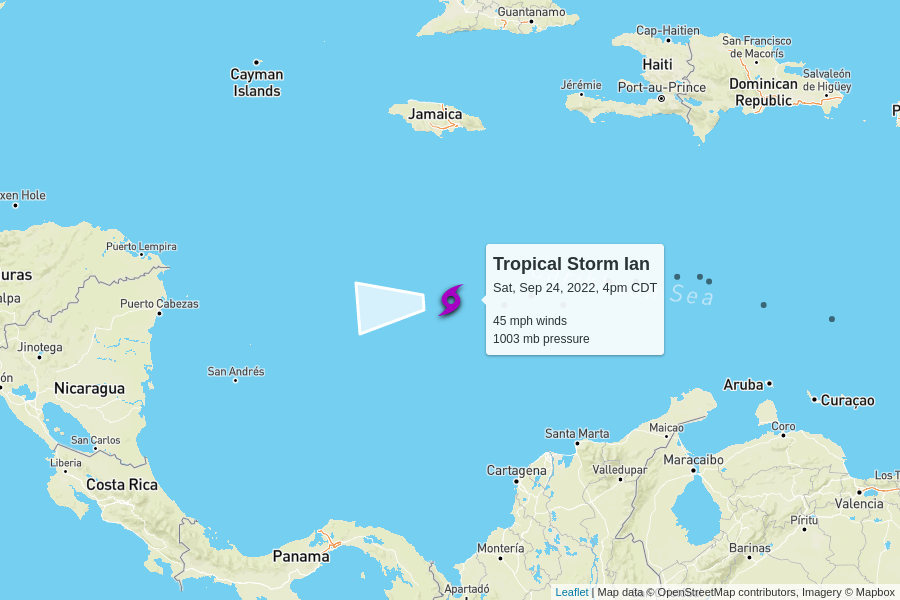
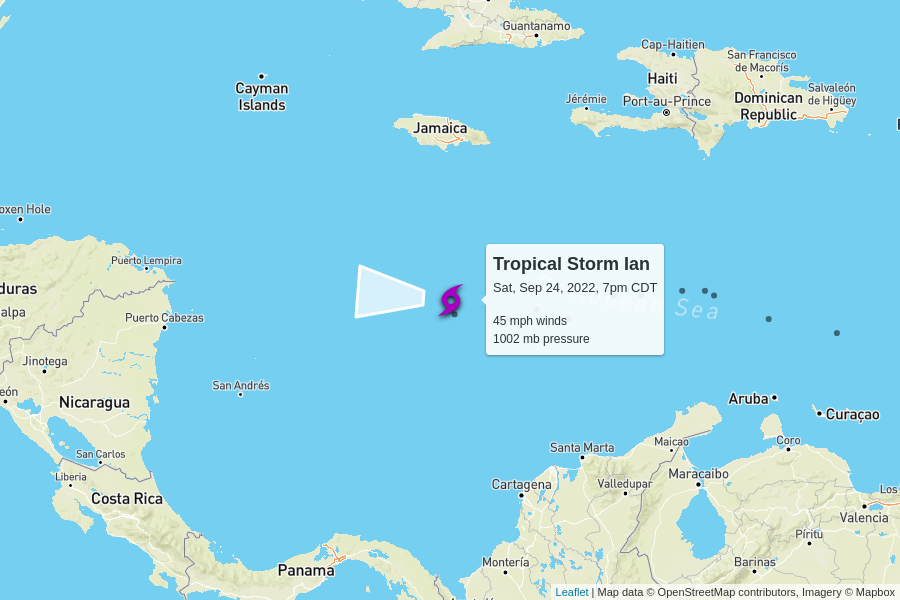
automatic update

diff --git a/docs/index.html b/docs/index.html
@@ -97,32 +97,10 @@
 
     <table>
       <tr>
-        <td colspan="6" class="storm category-0" style="cursor:pointer;" onClick="toggle('AL072022')">
-          <h2>🏁 Fiona
-          </h2>
-        </td>
-      </tr>
-      
-      <tr id="storm_AL072022" style="display:none;">
-        <td class="spacer">
-        <td colspan="5">
-          <figure>
-            <img src="AL072022.png">
-            <figcaption>
-              Map data &copy; <a href="https://www.openstreetmap.org/copyright">OpenStreetMap</a> contributors,
-              Imagery &copy; <a href="https://www.mapbox.com/">Mapbox</a> |
-              <a href="https://www.mapbox.com/map-feedback/" target="_blank">Improve this map</a>
-            </figcaption>
-          </figure>
-        </td>
-      </tr>
-      
-
-      <tr>
         <td colspan="6" class="storm category-0" >
           <h2>
             Tropical Storm Gaston
-            <p class="updated">last updated <span data-time>2022-09-24T21:00:00.000Z</span></p>
+            <p class="updated">last updated <span data-time>2022-09-25T00:00:00.000Z</span></p>
           </h2>
         </td>
       </tr>
@@ -166,7 +144,7 @@
         <td colspan="6" class="storm category-0" >
           <h2>
             Tropical Storm Ian
-            <p class="updated">last updated <span data-time>2022-09-24T21:00:00.000Z</span></p>
+            <p class="updated">last updated <span data-time>2022-09-25T00:00:00.000Z</span></p>
           </h2>
         </td>
       </tr>
@@ -182,11 +160,11 @@
       <tr>
         <td class="spacer"></td>
         <td>45 mph</td>
-        <td>1003 mb</td>
+        <td>1002 mb</td>
         <td>
-          16 mph to the west
+          14 mph to the west
           <br/>
-          <span style="display: inline-block; font-size: 1.5em; transform: rotate(265deg);">↑</span>
+          <span style="display: inline-block; font-size: 1.5em; transform: rotate(275deg);">↑</span>
         </td>
         <td><a href="https://raw.githubusercontent.com/mgwalker/atlantic-hurricanes/main/data/csv/AL092022.csv">AL092022.csv</a></td>
         <td><a href="https://www.nhc.noaa.gov/archive/2022/IAN.shtml?">NHC advisories</a></td>
@@ -196,6 +174,28 @@
         <td colspan="5">
           <figure>
             <img src="AL092022.png">
+            <figcaption>
+              Map data &copy; <a href="https://www.openstreetmap.org/copyright">OpenStreetMap</a> contributors,
+              Imagery &copy; <a href="https://www.mapbox.com/">Mapbox</a> |
+              <a href="https://www.mapbox.com/map-feedback/" target="_blank">Improve this map</a>
+            </figcaption>
+          </figure>
+        </td>
+      </tr>
+      
+
+      <tr>
+        <td colspan="6" class="storm category-0" style="cursor:pointer;" onClick="toggle('AL072022')">
+          <h2>🏁 Fiona
+          </h2>
+        </td>
+      </tr>
+      
+      <tr id="storm_AL072022" style="display:none;">
+        <td class="spacer">
+        <td colspan="5">
+          <figure>
+            <img src="AL072022.png">
             <figcaption>
               Map data &copy; <a href="https://www.openstreetmap.org/copyright">OpenStreetMap</a> contributors,
               Imagery &copy; <a href="https://www.mapbox.com/">Mapbox</a> |
